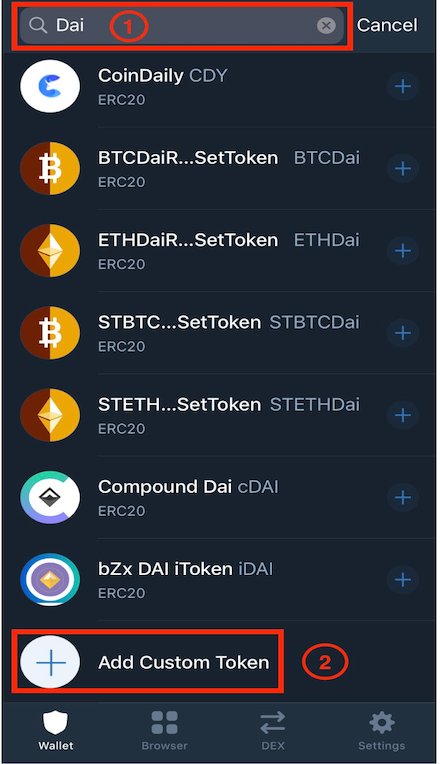
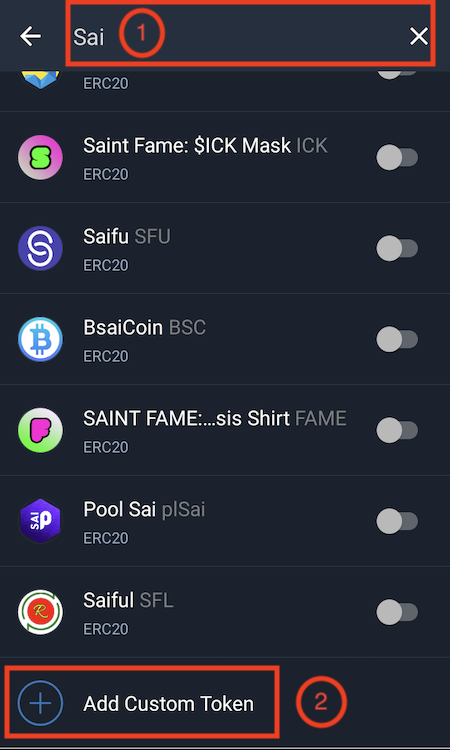
Update Trust Wallet SAI Screenshots, and proofread some wording.

diff --git a/docs-en/stblecoin-metamask.md b/docs-en/stblecoin-metamask.md
@@ -6,7 +6,7 @@ title: Add TT20-StableCoin to MetaMask
 ## Intro
 Here’s a guide to show you how to add TT20-USDT or TT20-SAI to your MetaMask. Please note that MetaMask is a third party Web3 wallet, if you have questions about the wallet, please [contact](https://metamask.zendesk.com/hc/en-us) the wallet provider directly.
 
-*TT20-StableCon: TT20-USDT, TT20-SAI (learn [more](https://www.wikiwand.com/en/Stablecoin) about stablecoin)*
+*TT20-StableCoin: TT20-USDT, TT20-SAI (learn [more](https://www.wikiwand.com/en/Stablecoin) about stablecoin)*
 
 *If you want to know how to set up and use your MetaMask, please refer to [here](https://developers.thundercore.com/docs/get-wallet/#metamask)*
 

diff --git a/docs-en/stblecoin-trustwallet.md b/docs-en/stblecoin-trustwallet.md
@@ -6,7 +6,7 @@ title: Add TT20-StableCoin to Trust Wallet
 ## Intro
 Here’s a guide to show you how to add TT20-USDT or TT20-SAI to your Trust Wallet. Please note that Trust Wallet is a third party wallet, if you have questions about the wallet, please contact the wallet provider directly.
 
-*TT20-StableCon: TT20-USDT, TT20-SAI (learn [more](https://www.wikiwand.com/en/Stablecoin) about stablecoin)*
+*TT20-StableCoin: TT20-USDT, TT20-SAI (learn [more](https://www.wikiwand.com/en/Stablecoin) about stablecoin)*
 
 ## Add TT20-USDT to Trust Wallet
 

diff --git a/docs-en/get-tokens.md b/docs-en/get-tokens.md
@@ -8,7 +8,7 @@ There are a few ways to get tokens so you can start utilizing the ThunderCore ne
 
 Network|Faucet                       	   |Limits
 -------|-----------------------------------|----------
-Mainnet|https://faucet.thundercore.com|Once per lifetime (gmail only)
+Mainnet|https://faucet.thundercore.com|Once per lifetime (Gmail only)
 Testnet|https://faucet-testnet.thundercore.com|1 TT per hour
 
 ## Buying tokens
